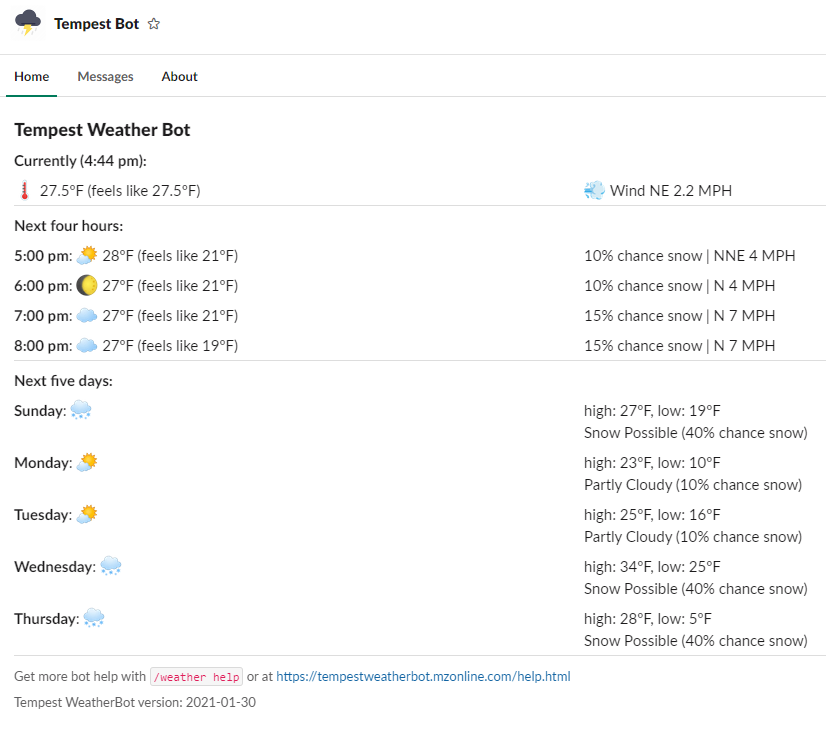
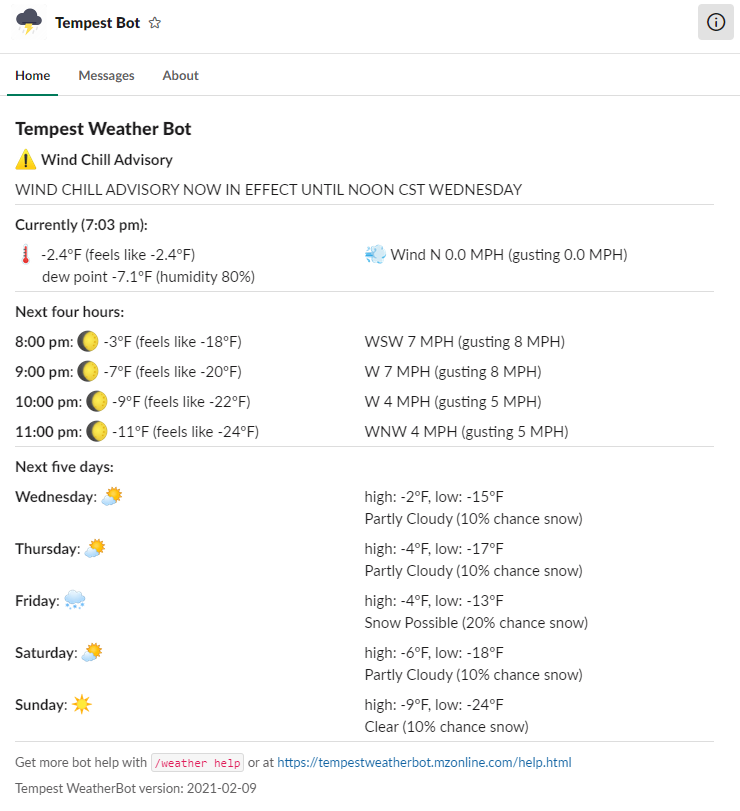
Updated site documentation with new alert details.

diff --git a/help.md b/help.md
@@ -8,6 +8,7 @@ Example commands (e.g. `/weather [argument]`)
 | `/weather <blank>` | Display current conditions |
 | `/weather now` | Display current conditions |
 | `/weather private` | Display current conditions privately |
+| `/weather alerts` | Display current weather alerts |
 | `/weather Tuesday` | Display the forecast for Tuesday |
 | `/weather 8 hour` | Display the forecast +8 hours from now |
 | `/weather 85 hours` | Display the forecast 85 hours from now |
@@ -42,6 +43,7 @@ The Tempest WeatherBot's default behavior is to display the current/most recent 
 | `/weather <blank>` | Display current conditions |
 | `/weather now` | Display current conditions |
 | `/weather private` | Display current conditions privately |
+| `/weather alerts` | Display current weather alerts |
 
 ---
 ## Forecast Commands and Range
@@ -99,6 +101,16 @@ Note: `week`s are relative to Mondays.
 
   ![Example current conditions response](https://github.com/zaskem/slackbot-tempestweather/blob/gh-pages/images/current.png?raw=true)
 
+  ![example response for current conditions with alert](https://github.com/zaskem/slackbot-tempestweather/blob/gh-pages/images/currentwithalert.png?raw=true)
+
+---
+
+### Active NWS Weather Alert
+
+  `/weather alerts`:
+
+  ![Example alert detail response](https://github.com/zaskem/slackbot-tempestweather/blob/gh-pages/images/alerts.png?raw=true)
+
 ---
 
 ### Weather Forecasts
@@ -153,6 +165,6 @@ Note: `week`s are relative to Mondays.
 ---
 
 ### Bot Home Tab
-The bot has an available home tab which, if optionally enabled, provides for a condensed single-page view of current conditions, four-hour forecast, and five-day forecast.
+The bot has an available home tab which, if optionally enabled, provides for a condensed single-page view of current conditions and alerts, four-hour forecast, and five-day forecast.
 
   ![Example bot home tab view](https://github.com/zaskem/slackbot-tempestweather/blob/gh-pages/images/hometab.png?raw=true)

diff --git a/index.md b/index.md
@@ -3,7 +3,9 @@ The Slack Tempest WeatherBot was developed by [@zaskem](https://github.com/zaske
 
 The bot itself requires some form of personal access to a [WeatherFlow Tempest station](https://weatherflow.com/tempest-weather-system/). Per the Tempest [Remote Data Access Policy](https://weatherflow.github.io/Tempest/api/remote-developer-policy.html) this is to be your own station, or definitely a non-commercial endeavor with a close friend otherwise.
 
-The general idea is to have a Slack slash command (e.g. `/weather`) which responds with current conditions, a forecast, or other information in real-time. Tempest has web and mobile apps, but for folks who are always/often in Slack it's simply more convenient and cool. An example response for current conditions:
+The general idea is to have a Slack slash command (e.g. `/weather`) which responds with current conditions, a forecast, or other information in real-time. Tempest has web and mobile apps, but for folks who are always/often in Slack it's simply more convenient and cool. An example response for current conditions (with and without an active alert):
+
+![example response for current conditions with alert](https://github.com/zaskem/slackbot-tempestweather/blob/gh-pages/images/currentwithalert.png?raw=true)
 
 ![example response for current conditions](https://github.com/zaskem/slackbot-tempestweather/blob/gh-pages/images/current.png?raw=true)
 
